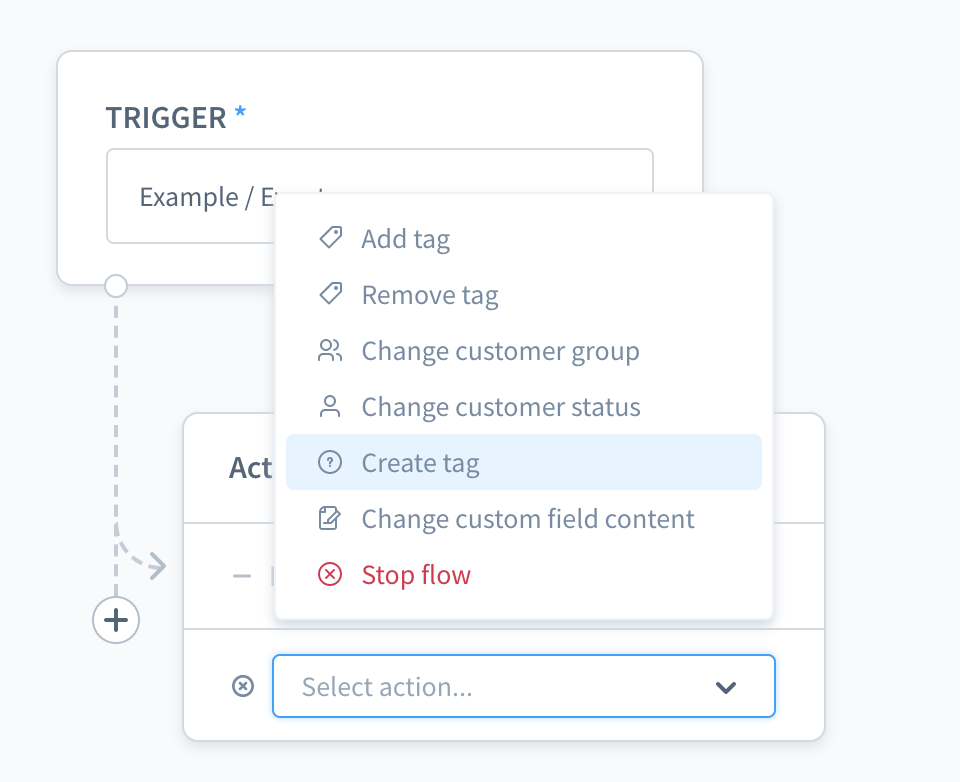
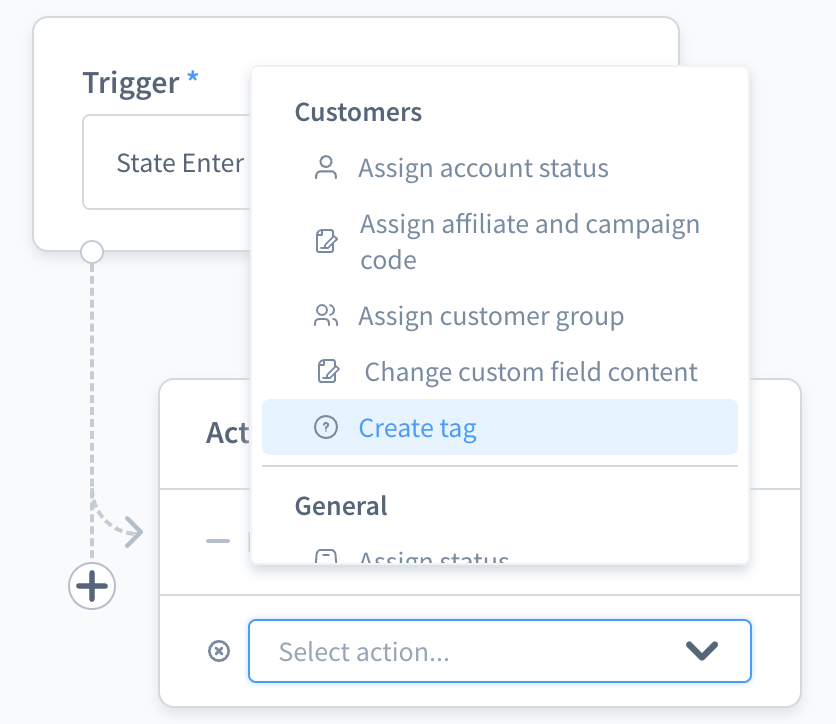
NEXT-22890 - Additional the documentation for Add Action in Flow Builder

diff --git a/guides/plugins/plugins/framework/flow/add-flow-builder-action.md b/guides/plugins/plugins/framework/flow/add-flow-builder-action.md
@@ -225,23 +225,46 @@ export const ACTION = Object.freeze({
     CREATE_TAG: 'action.create.tag',
 });
 
+export const GROUP = 'customer'
+
 export default {
-    ACTION,
+    ACTION, GROUP
 };
 ```
 
 {% endcode %}
+
+**Grouping Actions**
+
+Using the `GROUP` constant, you can define a group that your action will show up in. The default group is `general`.
+
+| Group Name | Group Headline |
+| :--- | :--- |
+| general | General|
+| tag | Tag |
+| customer | Customer |
+| order | Order |
 
 Next, we override `sw-flow-sequence-action` component to show `CREATE_TAG` label in action list. For example, we override `getActionTitle` method to add icon, label for `CREATE_TAG` action.
 
 {% code title="<plugin root>/src/Resources/app/administration/src/extension/sw-flow-sequence-action/index.js" %}
 
 ```jsx
-import { ACTION } from '../../constant/swag-example-plugin.constant';
+import { ACTION, GROUP } from '../../constant/swag-example-plugin.constant';
 
 const { Component } = Shopware;
 
 Component.override('sw-flow-sequence-action', {
+    computed: {
+        // Not necessary if you use an existing group
+        // Push the `groups` method in computed if you are define a new group
+        groups() {
+             this.actionGroups.unshift(GROUP);
+
+            return this.$super('groups');
+        },
+    },
+
     methods: {
         getActionTitle(actionName) {
             if (actionName === ACTION.CREATE_TAG) {
@@ -249,6 +272,7 @@ Component.override('sw-flow-sequence-action', {
                     value: actionName,
                     icon: 'default-badge-help',
                     label: this.$tc('swag-example-plugin.titleCreateTag'),
+                    group: GROUP,
                 }
             }
 
@@ -271,7 +295,7 @@ First, we customise `modalName` for the configuration modal, add an `actionDescr
 {% code title="<plugin root>/src/Resources/app/administration/src/extension/sw-flow-sequence-action/index.js" %}
 
 ```jsx
-import { ACTION } from '../../constant/swag-example-plugin.constant';
+import { ACTION, GROUP } from '../../constant/swag-example-plugin.constant';
 
 const { Component } = Shopware;
 
@@ -310,6 +334,7 @@ Component.override('sw-flow-sequence-action', {
                     value: actionName,
                     icon: 'default-badge-help',
                     label: this.$tc('swag-example-plugin.titleCreateTag'),
+                    group: GROUP,
                 }
             }
 
